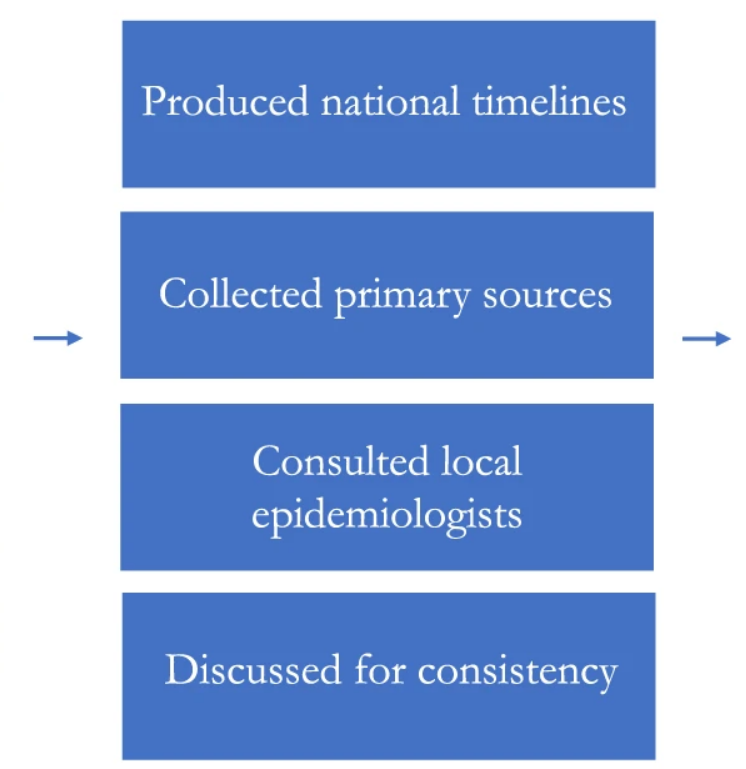
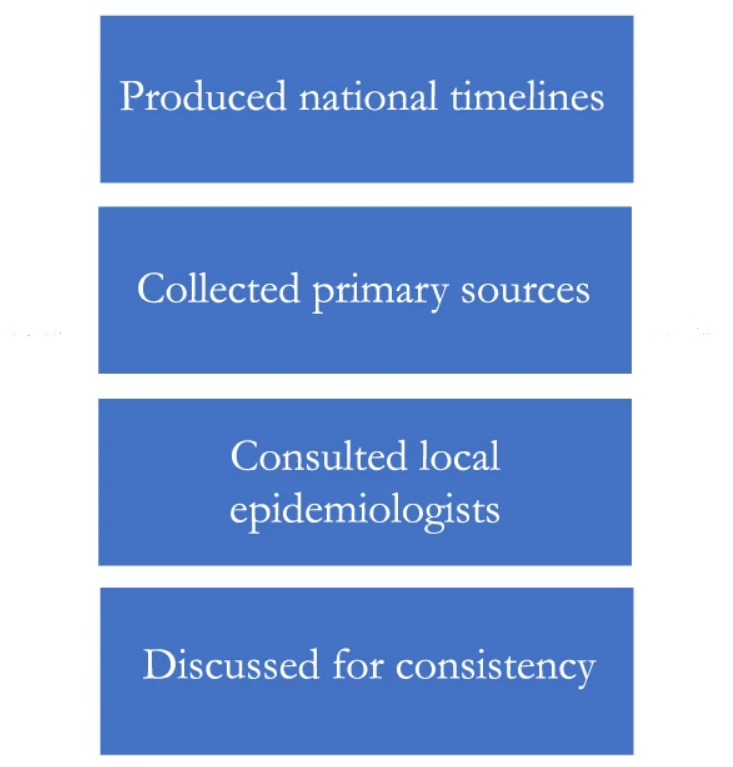
format img

Changed region(s): [[0.03, 0.0, 0.9905, 0.9896]]

diff --git a/_includes/researches/coviddata.html b/_includes/researches/coviddata.html
@@ -9,17 +9,17 @@
 			<a href="{{coviddata}}" target="_blank">
 			A dataset of non-pharmaceutical interventions on SARS-CoV-2 in Europe
 			</a>
-		</i> (2021), <i>Nature Scientific Data</i>
+		</i> (2022), <i>Nature Scientific Data</i>
 		<br>6th author / 20.<br>
 		<span class="dropdown">
 		  <a class="dropped" href="javascript:drop('coviddata')">The point</a>,
 		  <div id="coviddata" class="dropdown-content">
 			<br>
-			
+			The dataset from the <a href="{{covid2}}">second wave paper</a>.<br><br>
 
 			<i>Authors</i>: George Altman, Janvi Ahuja, Joshua Teperowski Monrad, Gurpreet Dhaliwal, Charlie Rogers-Smith, <span style="font-weight: bold; font-size: 13px;">Gavin Leech</span>, Benedict Snodin, Jonas B. Sandbrink, Lukas Finnveden, Alexander John Norman, Sebastian B. Oehm, Julia Fabienne Sandkühler, Jan Kulveit, Seth Flaxman, Yarin Gal, Swapnil Mishra, Samir Bhatt, Mrinank Sharma, Sören Mindermann & Jan Markus Brauner  
 			<br>
-				<script type="text/javascript" src="https://d1bxh8uas1mnw7.cloudfront.net/assets/embed.js"></script><div class="altmetric-embed" data-badge-type="donut" data-altmetric-id="102831786"></div>
+		  </div>
 			<br>
 		  </div>
 		</span>

diff --git a/pages/research.md b/pages/research.md
@@ -25,6 +25,7 @@ visible:	true
 ## Journal
 
 <table>
+	{%	include researches/coviddata.html	%}
 	{%	include researches/covid2.html	%}
 	{%	include researches/lineage.html	%}
 	{%	include researches/covid.html	%}
